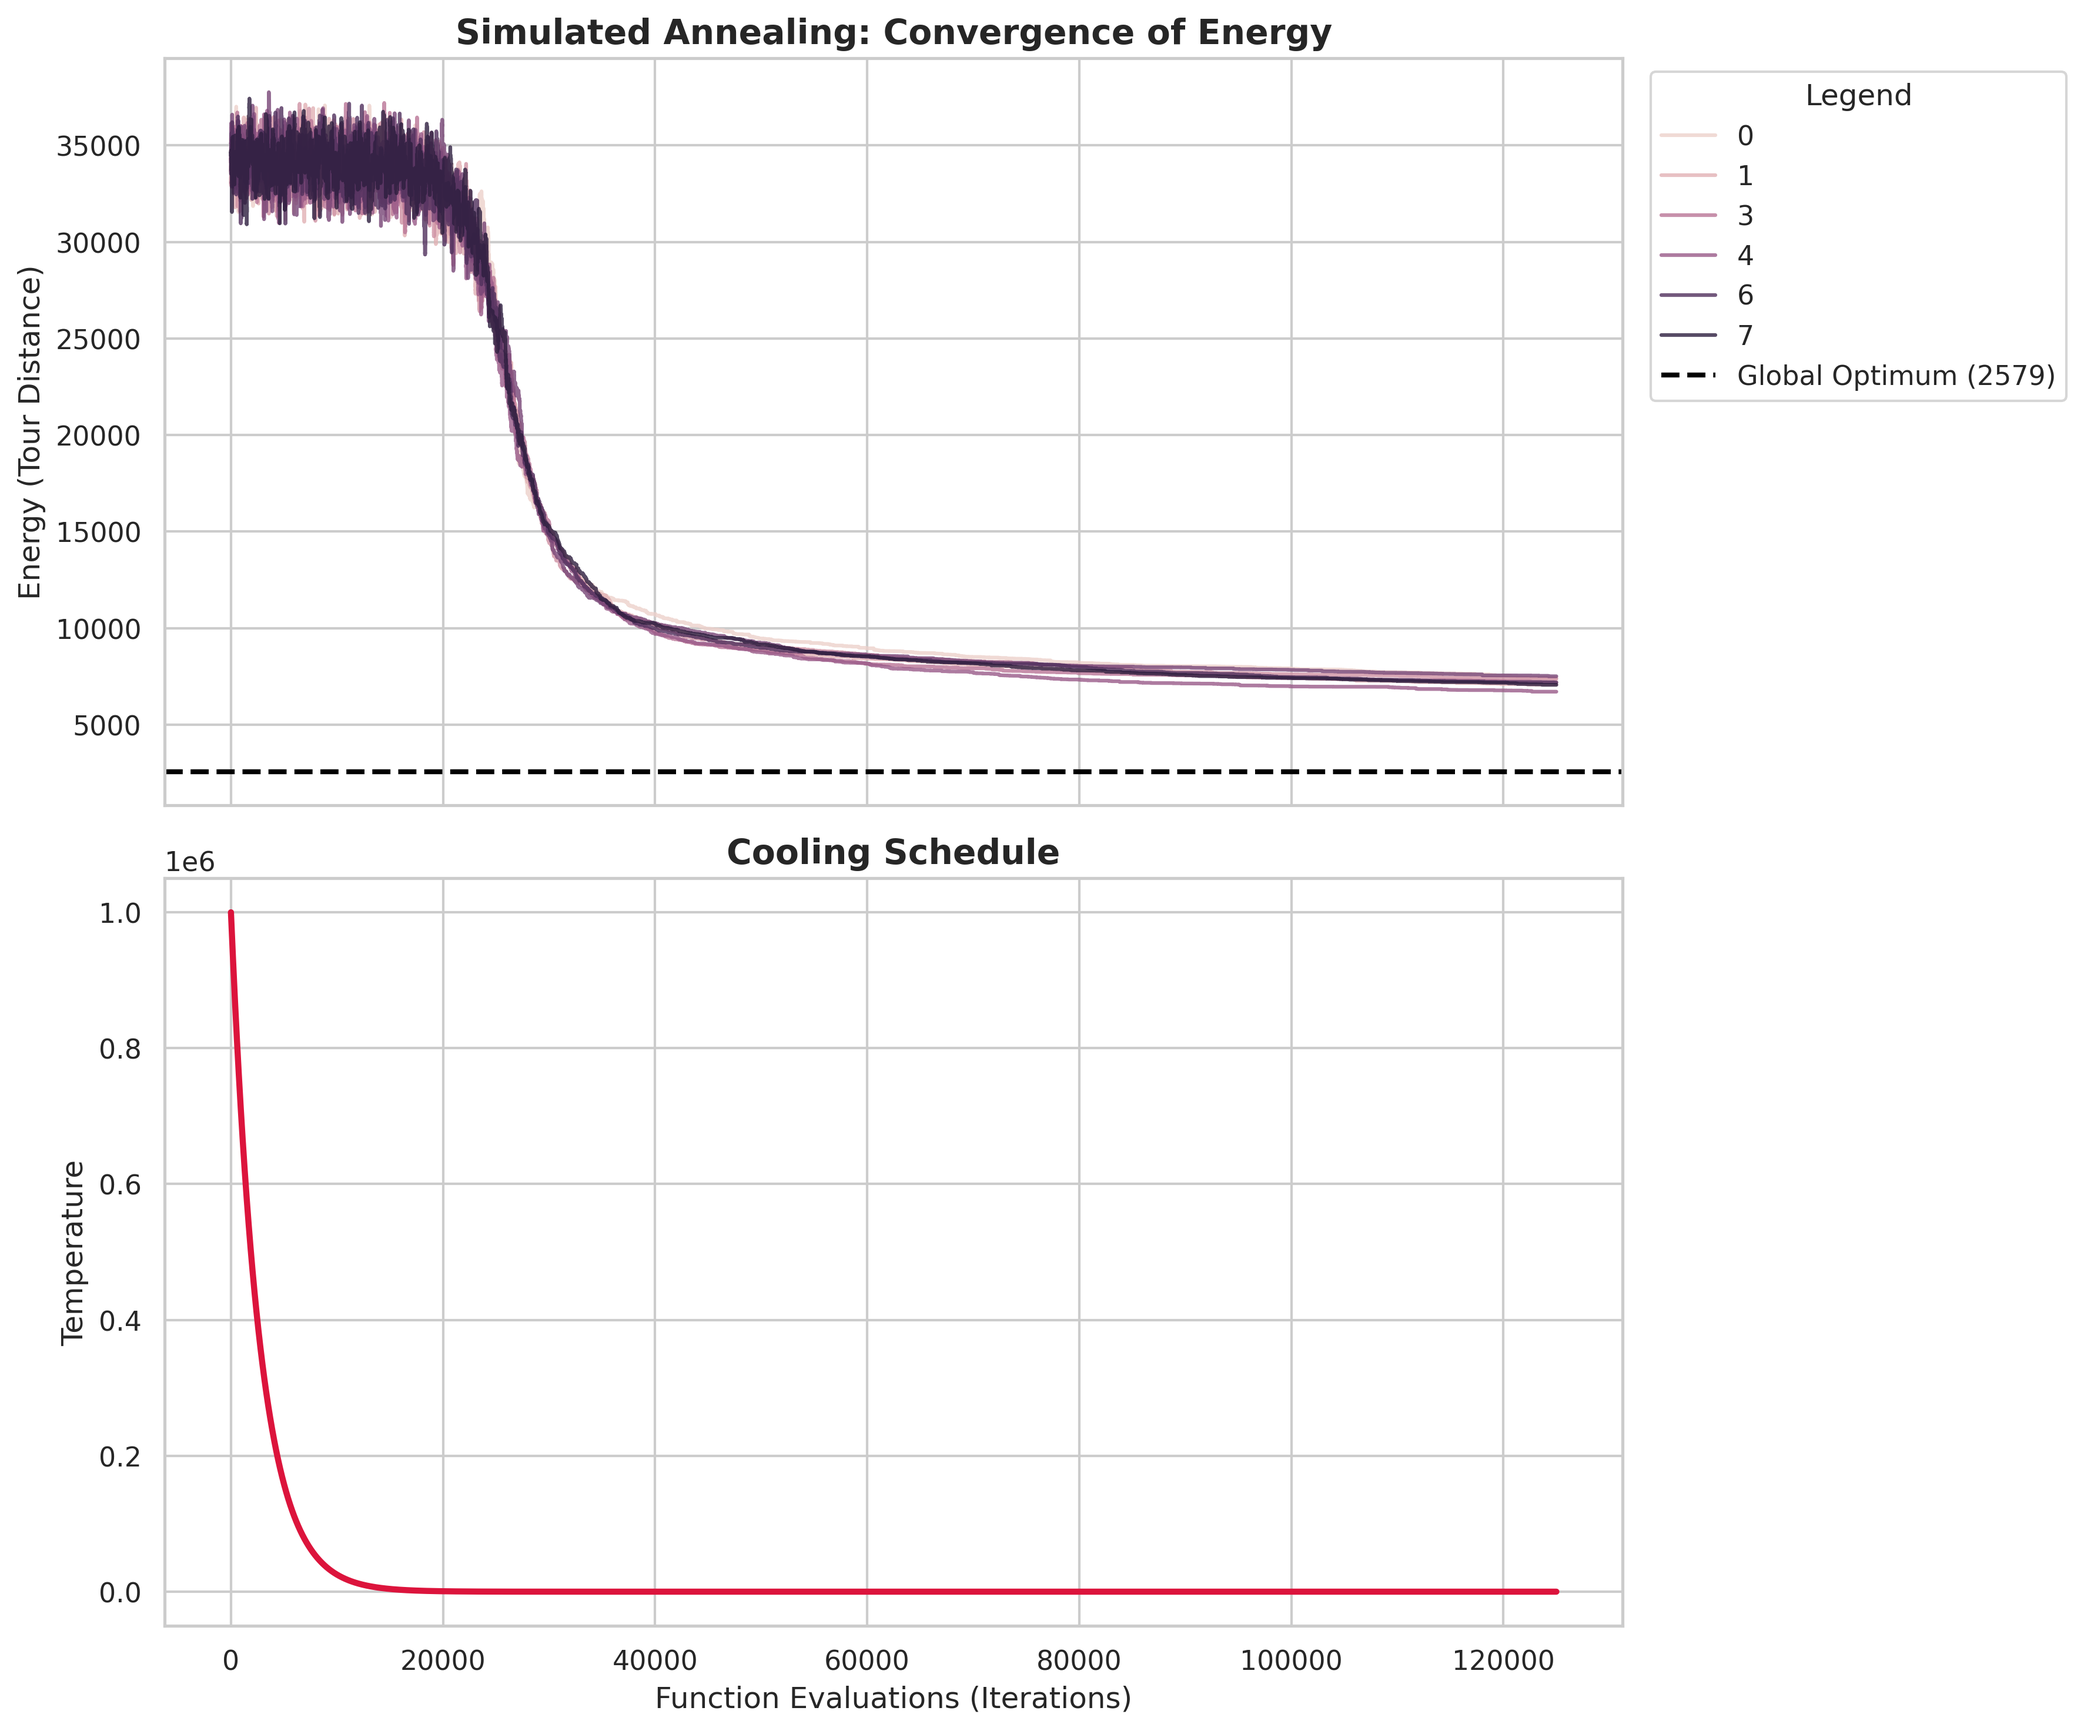
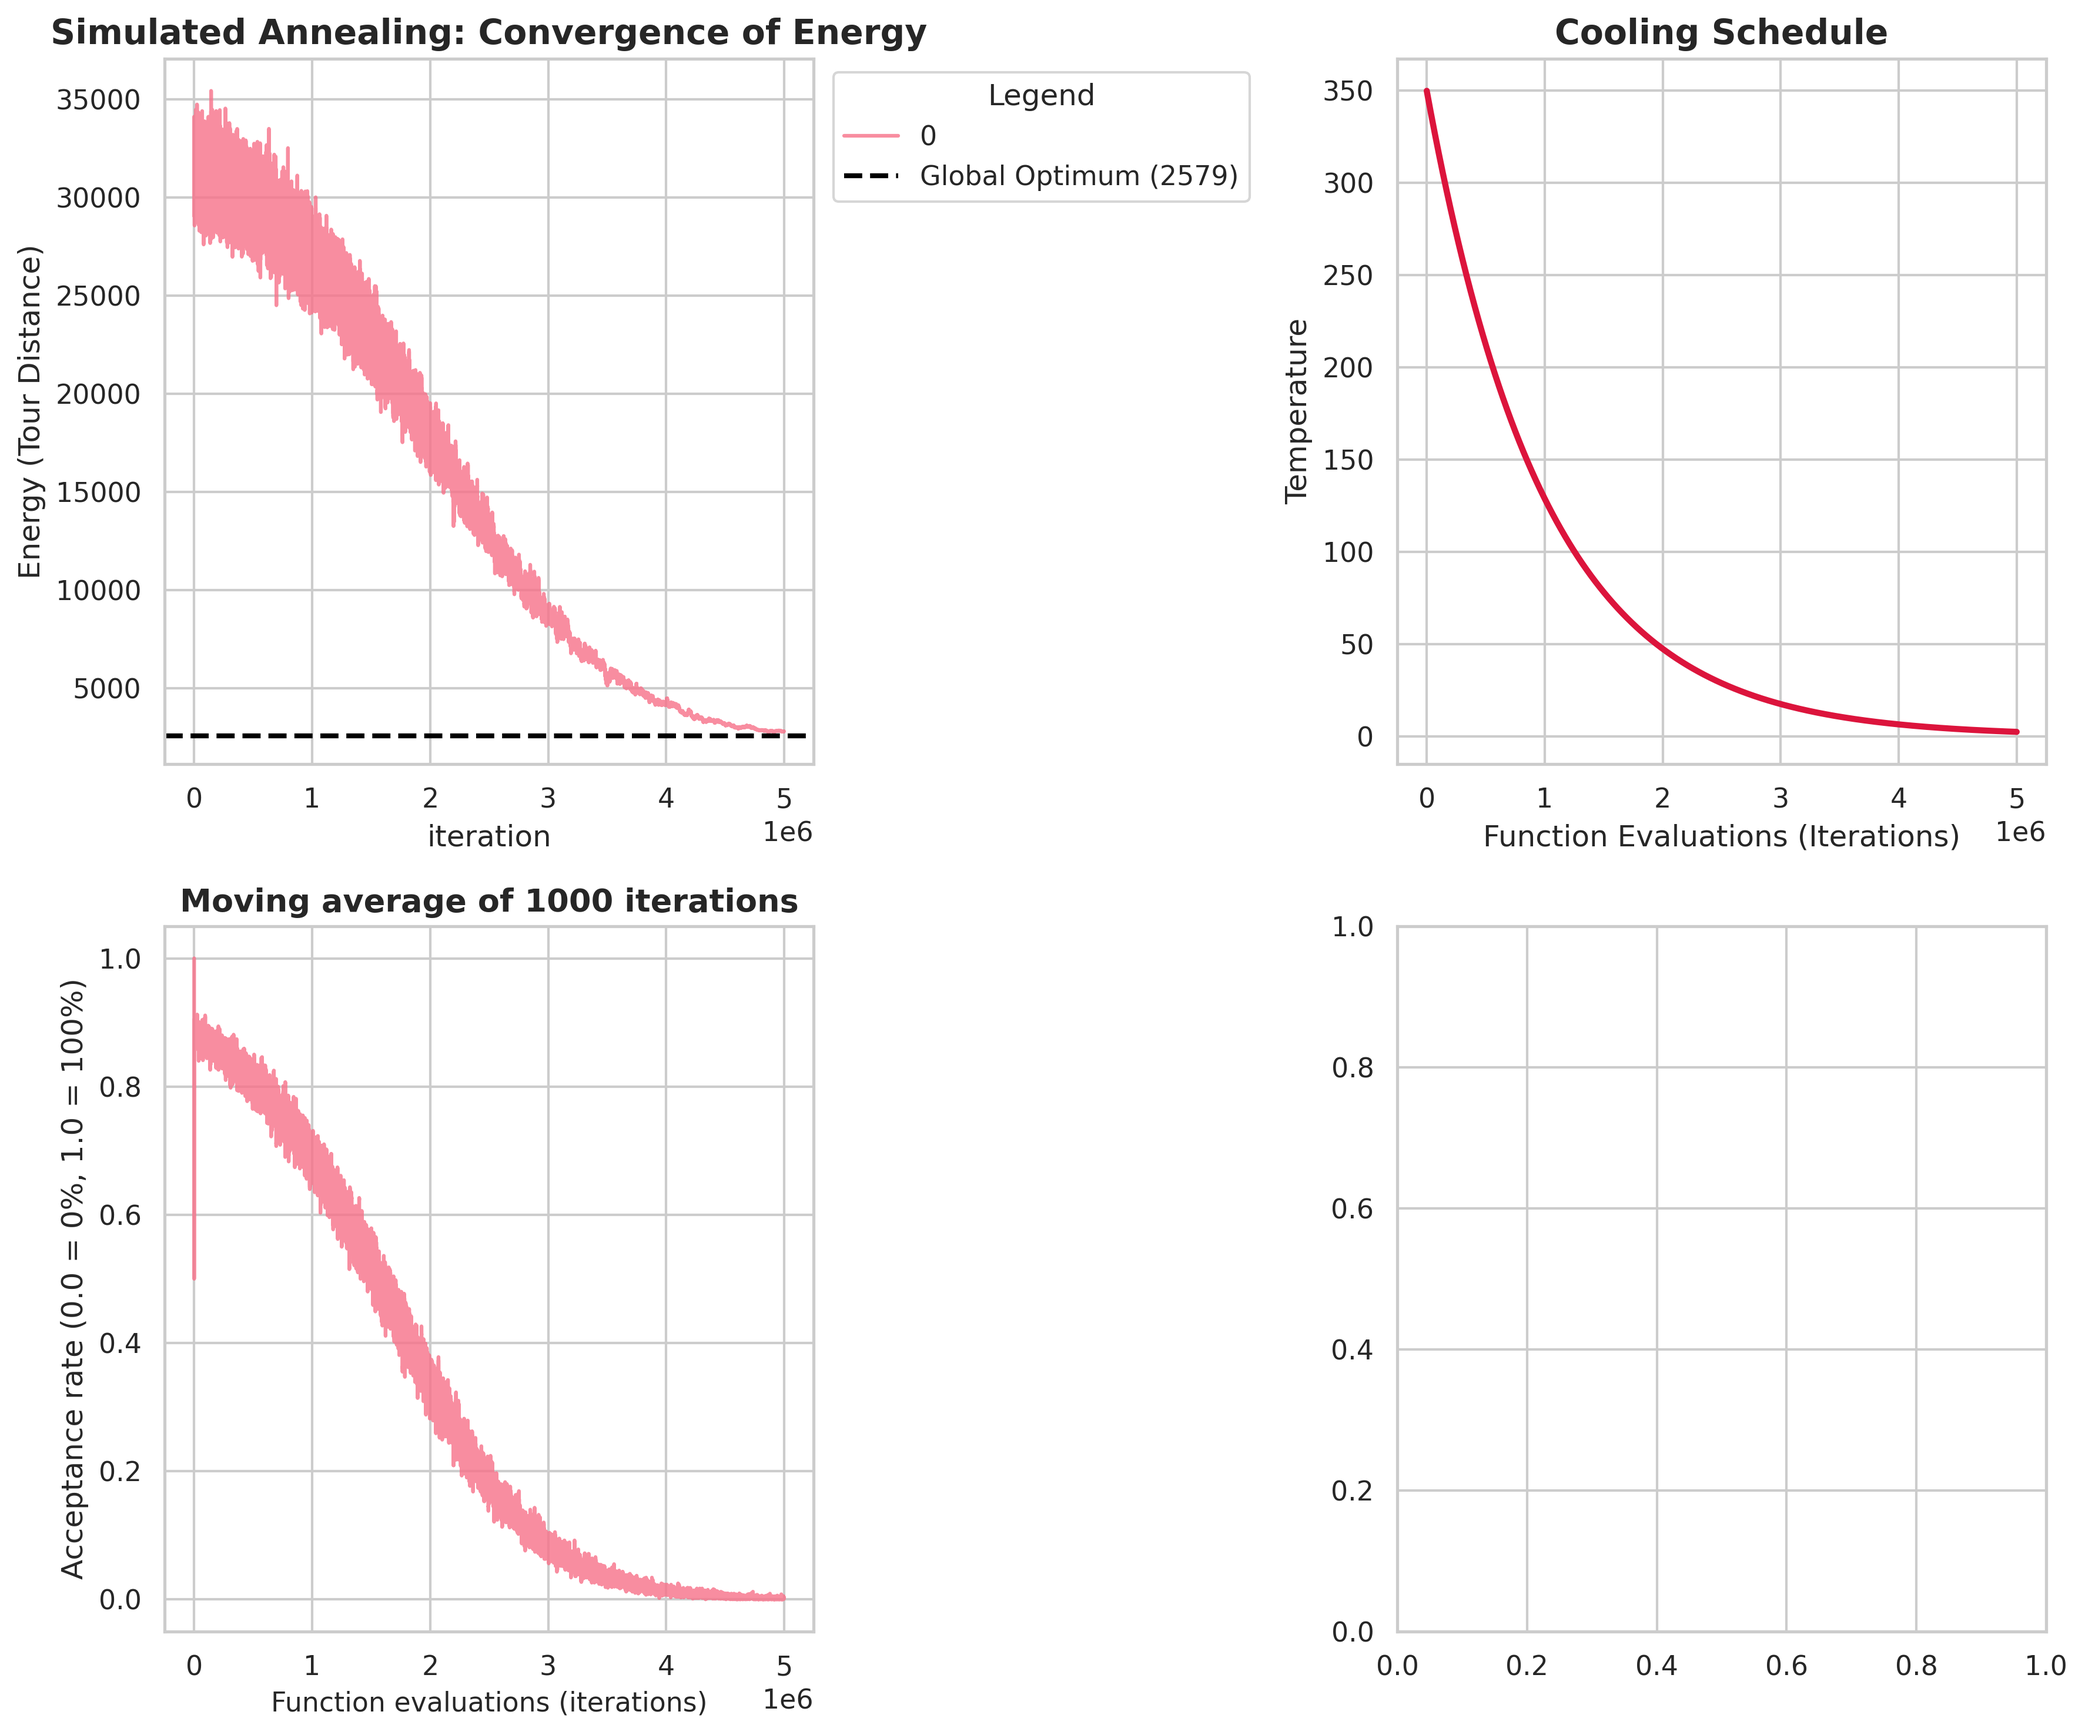
changed TSPProblem, added simulated annealing

diff --git a/src/algorithms/simulated_annealing.py b/src/algorithms/simulated_annealing.py
@@ -3,13 +3,14 @@ import math
 import numpy as np
 from src.core.OptimizationAlgorithm import OptimizationAlgorithm
 from typing import Callable, Any
-import concurrent.futures
+from concurrent.futures import ThreadPoolExecutor, as_completed
+from copy import deepcopy
 
 
 type Solution = np.ndarray
 
 
-def get_next_solution(current_solution: Solution, current_energy: float, temperature: float, problem: Problem) -> tuple[Solution, float, bool]:
+def get_next_solution(current_solution: Solution, current_energy: float, temperature: float, problem: Problem, rng) -> tuple[Solution, float, bool]:
     """
     Calculated the next solution for SA chain.
     Returns:
@@ -17,24 +18,22 @@ def get_next_solution(current_solution: Solution, current_energy: float, tempera
     - next_energy (float): The energy of the next state
     - accepted (bool): True if the proposed neighbour was accepted, False otherwise
     """
-
-    if temperature < 1e-12: # zeby nie dzielilo przez 0
-        raise ZeroDivisionError('Upsi Daisy')
     
-    neighbour = problem.get_neighbour(current_solution)
+    neighbour = problem.get_neighbour(current_solution, rng)
     neighbour_energy = problem.evaluate(neighbour)
     delta_E = neighbour_energy - current_energy
     if delta_E < 0:
         return neighbour, neighbour_energy, True
-    else:
+    
+    if temperature > 1e-12:
         accept_prob = math.exp(-delta_E / temperature)
-        if problem.rng.random() < accept_prob:
+        if rng.random() < accept_prob:
             return neighbour, neighbour_energy, True
     return current_solution, current_energy, False
 
 
 def run_as_chain(chain_id: int, problem: Problem, init_temp: float, next_temp_func: Callable[[int, float], float], max_fes: int) -> dict[str, Any]:
-    problem.rng = np.random.default_rng(problem.seed + chain_id)
+    rng = np.random.default_rng(problem.seed + chain_id)
     current_solution = problem.create_random_solution()
     current_energy = problem.evaluate(current_solution)
     best_solution = np.copy(current_solution)
@@ -42,39 +41,36 @@ def run_as_chain(chain_id: int, problem: Problem, init_temp: float, next_temp_fu
     temperature = init_temp
     iteration = 0
     history = []
-    history.append({
-        'chain_id': chain_id,
-        'iteration': iteration,
-        'solution': np.copy(current_solution),
-        'energy': current_energy,
-        'temperature': temperature,
-        'accepted': True
-    })
+    history.append((
+        chain_id,
+        iteration,
+        current_energy,
+        temperature,
+        True
+    ))
 
     while problem.fe_count < max_fes:
         iteration += 1
-        if temperature < 1e-12:
-            break
 
         current_solution, current_energy, accepted = get_next_solution(
             current_solution,
             current_energy,
             temperature,
-            problem
+            problem,
+            rng
         )
 
         if current_energy < best_energy:
             best_energy = current_energy
             best_solution = np.copy(current_solution)
 
-        history.append({
-        'chain_id': chain_id,
-        'iteration': iteration,
-        'solution': np.copy(current_solution),
-        'energy': current_energy,
-        'temperature': temperature,
-        'accepted': accepted
-        })
+        history.append((
+        chain_id,
+        iteration,
+        current_energy,
+        temperature,
+        accepted
+        ))
 
         temperature = next_temp_func(iteration, temperature)
     
@@ -99,12 +95,12 @@ class SimulatedAnnealing(OptimizationAlgorithm):
         global_best_solution = None
         global_best_energy = float('inf')
 
-        with concurrent.futures.ProcessPoolExecutor(max_workers=self.workers) as executor:
+        with ThreadPoolExecutor(max_workers=self.workers) as executor:
             futures = [
                 executor.submit(
                     run_as_chain,
                     chain_id,
-                    self.problem,
+                    deepcopy(self.problem),
                     init_temp,
                     next_temp_func,
                     fes_per_worker
@@ -112,7 +108,7 @@ class SimulatedAnnealing(OptimizationAlgorithm):
                 for chain_id in range(self.workers)
             ]
 
-            for future in concurrent.futures.as_completed(futures):
+            for future in as_completed(futures):
                 result = future.result()
                 self.chain_results.append(result)
                 self.history.extend(result['history'])
@@ -120,7 +116,7 @@ class SimulatedAnnealing(OptimizationAlgorithm):
                     global_best_energy = result['best_energy']
                     global_best_solution = np.copy(result['best_solution'])
         
-        self.history.sort(key=lambda x: (x['chain_id'], x['iteration']))
+        self.history.sort(key=lambda x: (x[0], x[1]))
 
         return global_best_solution
 
@@ -134,82 +130,110 @@ import pandas as pd
 import tsplib95
 
 
-class ExponentialCoolingWithLocalSearch:
-    def __init__(self, init_temp: float, final_temp: float, max_fes: int, cooling_fraction: float = 0.85):
-        """
-        cooling_fraction: np. 0.85 oznacza, że przez 85% czasu stygniemy, a przez ostatnie 15% robimy Local Search.
-        """
-        self.init_temp = init_temp
-        # Upewniamy się, że final_temp jest większa od 1e-12, żeby nie uruchomić "break"
-        self.final_temp = max(final_temp, 1e-10) 
-        
-        # Obliczamy ile iteracji faktycznie przeznaczamy na stygnięcie
-        self.cooling_steps = int(max_fes * cooling_fraction)
-        
-        # Wyliczamy alpha TYLKO dla kroków chłodzenia
-        self.alpha = (self.final_temp / self.init_temp) ** (1.0 / self.cooling_steps)
-        print(f"[Cooling Setup] Alpha: {self.alpha:.7f} | Chłodzenie: {self.cooling_steps} kroków | Local Search: {max_fes - self.cooling_steps} kroków")
-
+class GeomTempCooling:
     def __call__(self, iteration: int, current_temp: float) -> float:
-        # Faza 1: Normalne stygnięcie
-        if iteration < self.cooling_steps:
-            return current_temp * self.alpha
-            
-        # Faza 2: Czysty Local Search
-        # Zwracamy stałą, mikroskopijną temperaturę.
-        # Prawdopodobieństwo akceptacji gorszego rozwiązania będzie matematycznie bliskie zeru.
-        else:
-            return 1e-11
+        return 0.999999 * current_temp
+    
 
+def estimate_initial_temperature(problem, samples=1000, target_acceptance=0.8, rng=None):
+    sol = problem.create_random_solution()
+    energy = problem.evaluate(sol)
 
+    deltas = []
+
+    for _ in range(samples):
+        neigh = problem.get_neighbour(sol, rng)
+        neigh_energy = problem.evaluate(neigh)
+
+        delta = neigh_energy - energy
+
+        if delta > 0:
+            deltas.append(delta)
+
+        sol = neigh
+        energy = neigh_energy
+
+    avg_delta = np.mean(deltas)
+
+    return -avg_delta / np.log(target_acceptance)
 
 
 if __name__ == '__main__':
     problem = TSPProblem('data/tsplib95/tasks/a280.tsp')
-    sa = SimulatedAnnealing(problem, 1000000, 8)
-    init_temp = 10000000.0
-    max_fes = 1000000 // 8
-    temp_func = ExponentialCoolingWithLocalSearch(init_temp, 0.0, max_fes)
-    solution = sa.solve(1000000.0, temp_func)
+    max_fes = 5_000_000
+    workers = 1
+    rng = np.random.default_rng(seed=42)
+    init_temp = estimate_initial_temperature(problem, rng=rng)
+    print(init_temp)
+    temperature_func = GeomTempCooling()
+
+    sa = SimulatedAnnealing(problem, max_fes, workers)
+    #temp_func = ExponentialCoolingWithLocalSearch(init_temp, 0.0, max_fes)
+    solution = sa.solve(init_temp, temperature_func)
     
     opt_data = tsplib95.load('data/tsplib95/solutions/a280.opt.tour')
     opt_nodes = opt_data.tours[0]
     optimal_solution = np.array(opt_nodes) - 1
     optimal_energy = problem.evaluate(optimal_solution)
 
-    df = pd.DataFrame(sa.history)
+    df = pd.DataFrame(sa.history, columns=['chain_id', 'iteration', 'energy', 'temperature', 'is_accepted'])
     sns.set_theme(style="whitegrid", palette="husl")
-    fig, axes = plt.subplots(2, 1, figsize=(12, 10), sharex=True)
+    fig, axes = plt.subplots(2, 2, figsize=(12, 10))
+    # wykres energi od iteracji
     sns.lineplot(
         data=df, 
         x='iteration', 
         y='energy', 
         hue='chain_id', 
-        ax=axes[0], 
+        ax=axes[0, 0], 
         alpha=0.8,
         linewidth=1.5
     )
-    axes[0].axhline(
+    axes[0, 0].axhline(
         y=optimal_energy, 
         color='black', 
         linestyle='--', 
         linewidth=2, 
         label=f'Global Optimum ({optimal_energy:.0f})'
     )
-    axes[0].set_title('Simulated Annealing: Convergence of Energy', fontsize=14, fontweight='bold')
-    axes[0].set_ylabel('Energy (Tour Distance)', fontsize=12)
-    axes[0].legend(title='Legend', bbox_to_anchor=(1.01, 1), loc='upper left')
+    axes[0, 0].set_title('Simulated Annealing: Convergence of Energy', fontsize=14, fontweight='bold')
+    axes[0, 0].set_ylabel('Energy (Tour Distance)', fontsize=12)
+    axes[0, 0].legend(title='Legend', bbox_to_anchor=(1.01, 1), loc='upper left')
+    # wykres temperatury od iteracji
     sns.lineplot(
         data=df[df['chain_id'] == 0], 
         x='iteration', 
         y='temperature', 
-        ax=axes[1], 
+        ax=axes[0, 1], 
         color='crimson', 
         linewidth=2.5
     )
-    axes[1].set_title('Cooling Schedule', fontsize=14, fontweight='bold')
-    axes[1].set_xlabel('Function Evaluations (Iterations)', fontsize=12)
-    axes[1].set_ylabel('Temperature', fontsize=12)
+    axes[0, 1].set_title('Cooling Schedule', fontsize=14, fontweight='bold')
+    axes[0, 1].set_xlabel('Function Evaluations (Iterations)', fontsize=12)
+    axes[0, 1].set_ylabel('Temperature', fontsize=12)
+    # wykres średniej akceptacji w przedzialach 1000 iteracji
+    df['is_accepted'] = df['is_accepted'].astype(float)
+    df['rolling_acceptance'] = df.groupby('chain_id')['is_accepted'].transform(
+        lambda x: x.rolling(window = 1000, min_periods=1).mean()
+    )
+    sns.lineplot(
+        data=df,
+        x='iteration',
+        y='rolling_acceptance',
+        hue='chain_id',
+        ax=axes[1,0],
+        alpha=0.8,
+        linewidth=1.5,
+        legend=False
+    )
+    axes[1, 0].set_title('Moving average of 1000 iterations', fontsize=13, fontweight='bold')
+    axes[1, 0].set_xlabel('Function evaluations (iterations)', fontsize=11)
+    axes[1, 0].set_ylabel('Acceptance rate (0.0 = 0%, 1.0 = 100%)')
+    axes[1, 0].set_ylim(-0.05, 1.05)
+
+
+
     plt.tight_layout()
     plt.savefig('sa_history_seaborn.png', dpi=300, bbox_inches='tight')
     plt.show()
+

diff --git a/src/core/TSPProblem.py b/src/core/TSPProblem.py
@@ -48,12 +48,23 @@ class TSPProblem(Problem):
         return full_tour
     
 
-    def get_neighbour(self, solution: np.ndarray | list[int]) -> np.ndarray:
+    def get_neighbour_swap(self, solution: np.ndarray | list[int], rng) -> np.ndarray:
         """Returns a neighbour by swapping two random cities with each other"""
         neighbour = np.copy(solution)
-        idx1, idx2 = self.rng.choice(range(1, len(neighbour)), size=2, replace=False)
+        idx1, idx2 = rng.choice(range(1, len(neighbour)), size=2, replace=False)
         neighbour[idx1], neighbour[idx2] = neighbour[idx2], neighbour[idx1]
         return neighbour
+    
+
+    # 2-opt
+    def get_neighbour(self, solution: np.ndarray | list[int], rng) -> np.ndarray:
+        neighbour = np.copy(solution)
+        i, j = sorted(
+            rng.choice(range(1, len(neighbour)), size=2, replace=False)
+        )
+        neighbour[i:j+1] = neighbour[i:j+1][::-1]
+        return neighbour
+
     
     def get_distance(self, city_a: int, city_b: int) -> float:
         """Returns distance between city_a and city_b using internal matrix"""
